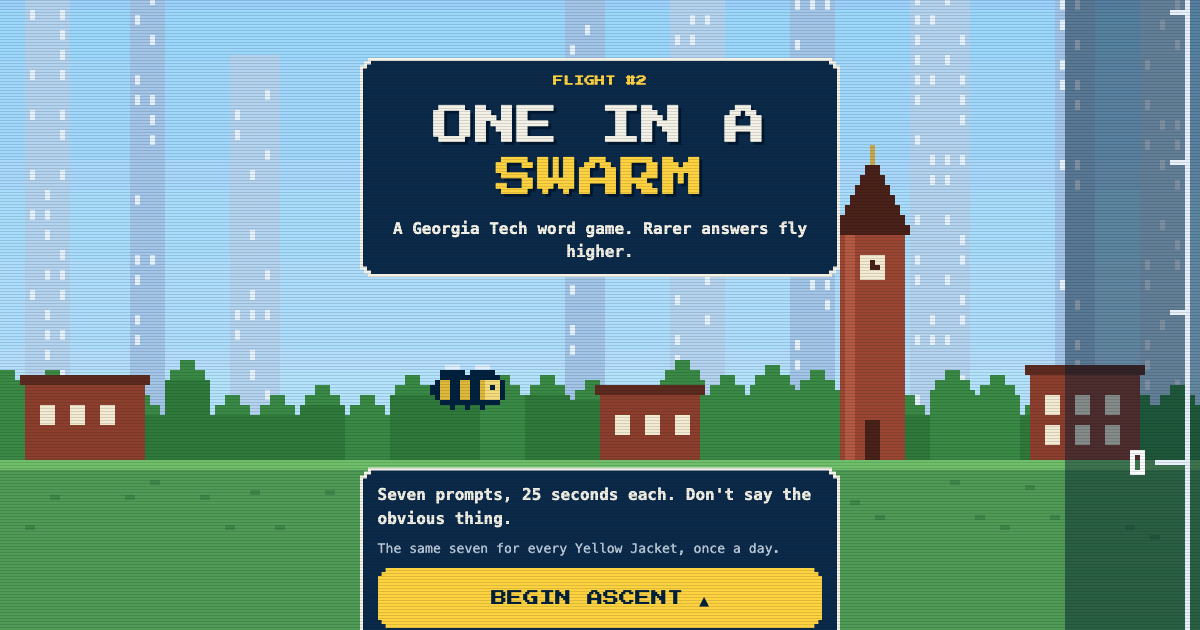
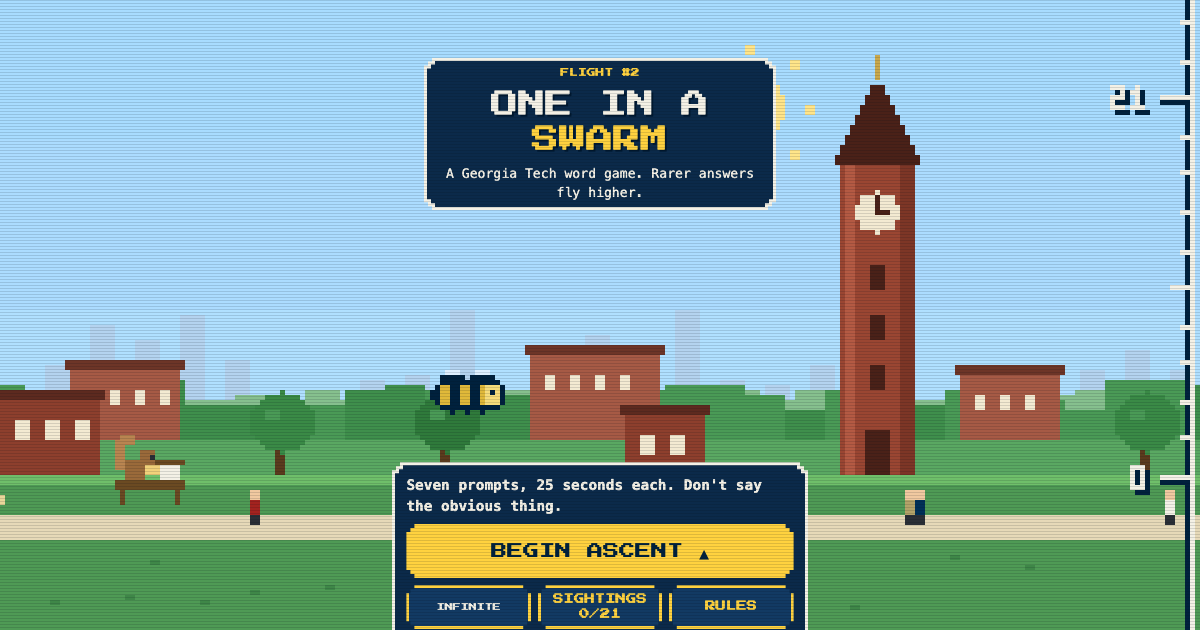
v3 section 7: verify, screenshots and review
Three flights at phone and desktop size, 44 screenshots in screenshots/v3,
two review iterations logged in REVIEW.md. Start-screen controls on one
row, bee and flag clear of the tier labels, sightings no longer counted
from the previous screen. 99 unit tests and 27 browser scenarios pass.

diff --git a/js/scene.js b/js/scene.js
@@ -142,7 +142,7 @@
     const rowOf = (score, f) => anchorRow() - Math.round((score - cam) * PPP * (f || 1));
     const scoreOf = (row) => cam + (anchorRow() - row) / PPP;
     const onScreen = (y, pad) => y > -(pad || 30) && y < H + (pad || 30);
-    const beeX = () => Math.round(W * (W < 150 ? 0.28 : 0.36));
+    const beeX = () => Math.round(W * (W < 150 ? 0.2 : 0.36)); // further left on phones, clear of the tier labels
 
     function px(x, y, w, h, color) {
       ctx.fillStyle = color;
@@ -751,7 +751,7 @@
       },
       flag(g, x) {
         if (!flagUp) return null;
-        const fx = beeX() + 22;
+        const fx = beeX() - 8; // just behind the bee, clear of the answer tag and the tier label
         const fy = anchorRow() + 7;
         px(fx, fy - 15, 1, 16, '#f4f6f8');
         px(fx + 1, fy - 15, 5, 5, '#c9a94d');

diff --git a/js/core.js b/js/core.js
@@ -7,7 +7,7 @@
   'use strict';
 
   const TIERS = {
-    common: { points: 10, label: 'Common', emoji: '⬜', bonusMs: 8000, climbMs: 2500, quip: 'Everybody said that one. The bees barely cleared the lawn.' },
+    common: { points: 10, label: 'Common', emoji: '⬜', bonusMs: 8000, climbMs: 2500, quip: 'Everybody said that one. A short hop.' },
     clever: { points: 15, label: 'Too Clever', emoji: '🟩', bonusMs: 8000, climbMs: 2800, quip: 'You and every other clever Jacket.' },
     solid: { points: 30, label: 'Solid', emoji: '🟧', bonusMs: 9000, climbMs: 3100, quip: 'A good answer. The swarm picks up speed.' },
     rare: { points: 60, label: 'Rare', emoji: '🟦', bonusMs: 10000, climbMs: 3400, quip: 'Not many think of that one. Up you go.' },

diff --git a/css/style.css b/css/style.css
@@ -185,8 +185,8 @@ section[data-view="home"] { min-height: 100dvh; padding: 3.6rem 1rem 0.6rem; dis
 .start-links summary::before { display: none; }
 .start-links details[open] { grid-column: 1 / -1; }
 .start-links > * { min-width: 0; }
-.start-links summary { flex-wrap: wrap; overflow-wrap: anywhere; }
-.start-links summary span { margin-left: 0.3rem; }
+.start-links summary { flex-direction: column; }
+.start-links summary span { display: block; }
 .start-panel .rule-line { font-size: 0.9rem; }
 .start-panel .btn-big { min-height: 54px; }
 .how summary { cursor: pointer; min-height: 44px; display: flex; align-items: center; font-family: var(--pixel); font-size: 0.65rem; color: var(--accent); }

diff --git a/tests/e2e/screens.js b/tests/e2e/screens.js
@@ -112,8 +112,9 @@ async function run(browser, base, name, width, height, mobile) {
   await phase('reveal');
   await sleep(900);
   await shot('12-flight150-ends-here');
+  await load(seed(['swarm', 'clever'])); // 115 points: the red-and-black balloon is just overhead
   if (await tap('balloon')) {
-    await sleep(350);
+    await sleep(300);
     await shot('13-egg-balloon-popped');
   }
   await load(seed(['rare', 'solid', 'clever', 'common', 'solid', null, null]));

diff --git a/README.md b/README.md
@@ -23,12 +23,25 @@ confirm it ("Clough") and costs nothing. Answers score by rarity:
 | Deep Cut | 85 | |
 | One in a Swarm | 100 | exactly one hidden answer per prompt |
 
-**The ascent.** The whole game is one tall pixel-art world. Every correct answer flies the swarm
-upward from the campus lawn, and the world never resets between rounds: past the Atlanta skyline,
-low clouds, airliners and cirrus, into a darkening stratosphere and out to the edge of space.
-Altitude follows a curve (`TOP_FEET` and `ALTITUDE_CURVE` in `js/core.js`): seven obvious answers
-just clear the tallest building in Atlanta at about 1,000 ft, and a perfect 700 reaches the Karman
-line at 328,084 ft. Real altitude facts slide past on the way up.
+**The ascent.** The whole game is one tall pixel-art world, and it never resets between rounds.
+Height on screen depends only on points: one point is 6% of the screen, so a 10-point answer climbs
+a little over half a screen and a 100-point answer climbs six. The feet on the ruler come from one
+curve (`altitudeFeet()` in `js/core.js`) pinned so that real altitudes land in the right scenery:
+
+| Points | Zone | About |
+|---|---|---|
+| 0 | Campus | the lawn |
+| 40 | Midtown skyline | 120 ft |
+| 110 | Low clouds | 1,200 ft |
+| 200 | Weather | 16,000 ft |
+| 300 | High sky | 29,000 ft |
+| 420 | Stratosphere | 70,000 ft |
+| 550 | Space | the Karman line, 100 km |
+| 650 to 700 | The Moon | 238,855 miles |
+
+Real altitude facts slide past on the way up, and there are 21 sightings to find: twelve odd things
+drawn into the world at their real altitudes, five secret answers, and four things to do. Found
+ones are kept in the browser and listed on the title and results screens.
 
 A finished day cannot be replayed. If you are mid-run when the day rolls over, you finish
 yesterday's flight first. Streak, flights, average and best are kept in the browser.
@@ -67,11 +80,11 @@ That one command runs all three of these:
 |---|---|
 | `npm test` | Unit tests: matching, daily seed and rotation, timers, scoring, saved data, colour contrast, file checks |
 | `npm run validate` | Content validator for `data/prompts.json` |
-| `npm run test:e2e` | 24 scenarios in headless Chrome: full daily and infinite runs, the climb and reveal card, wrong guess, near-miss and timeout, refresh and midnight rollover, time zones, blocked storage, bad saves, load failure, layout at four widths with the keyboard up, keyboard-only play, screen-reader announcements, reduced motion, sound, sharing |
+| `npm run test:e2e` | 27 scenarios in headless Chrome: full daily and infinite runs, the climb and reveal card, equal points climbing equal distance, a perfect 700 to the Moon, easter eggs and the sightings log, wrong guess, near-miss and timeout, refresh and midnight rollover, time zones, blocked storage, bad saves, load failure, layout at four widths with the keyboard up, keyboard-only play, screen-reader announcements, reduced motion, sound, sharing, and frame rate on a throttled phone |
 
-`npm run screens` plays one flight at 375x812 and 1440x900 and saves screenshots of the start
-screen, a wrong guess, a near-miss, mid-climb, the reveal card, the One in a Swarm moment, a
-timeout and the results into `screenshots/`. It also refreshes the link-preview image.
+`npm run screens` plays flights of about 150, about 350 and a perfect 700 at 375x812 and 1440x900
+and saves screenshots of every zone, some sightings, a secret answer, the One in a Swarm moment and
+the results into `screenshots/v3/`. It also refreshes the link-preview image.
 
 ## Adding or changing prompts
 
@@ -102,7 +115,7 @@ X Tenth and Home | 10th and Home :: A note shown after a correct answer.
 Only include answers you are sure are real. Changing the set of prompt ids reshuffles the daily
 rotation for everyone, so ship prompt additions and removals just after 00:00 UTC.
 
-The daily rotation never repeats a prompt within `floor(prompts / 7)` days (4 days with 31 prompts).
+The daily rotation never repeats a prompt within `floor(prompts / 7)` days (4 days with 32 prompts).
 
 ## Deploying to GitHub Pages
 
@@ -122,14 +135,15 @@ index.html, 404.html     the pages
 css/style.css            styles; colour pairs are contrast-tested
 js/core.js               game rules, pure functions, shared by the browser and the tests
 js/scene.js              the world: one tall pixel-art scene drawn on a canvas
-js/facts.js              the altitude facts
+js/facts.js              the altitude facts (flag an approximate one with `verify`)
 js/sfx.js                sound effects, synthesised with Web Audio
 js/app.js                camera, round pacing and the DOM
 data/prompts.json        the prompt bank (generated)
 assets/fonts/            Press Start 2P and its licence
 tools/                   prompt source and build, validator
 tests/                   unit tests, and tests/e2e for headless Chrome
-screenshots/             the latest `npm run screens` output
+screenshots/v3/          the latest `npm run screens` output
+SWARM-V3.md              the v3 checklist with evidence
 SHIP.md                  release checklist with evidence
 HUMAN-TODO.md            what still needs a person
 ```

diff --git a/REVIEW.md b/REVIEW.md
@@ -165,3 +165,69 @@ Still not right, and left as it is:
 | Looks right at 375 and 1440 | PASS | layout scenario at 320, 375, 768 and 1440 including keyboard-up; screenshots reviewed by eye |
 
 Stopped after three iterations.
+
+---
+
+# v3: every flight goes somewhere
+
+The brief: fix six bugs, separate visual height from displayed feet, rebuild the world in zones,
+add easter eggs, and make it feel like a journey. Tracked item by item in `SWARM-V3.md`.
+Two verify iterations.
+
+## Iteration 1
+
+Built sections 1 to 6, then toured every zone in screenshots and looked at them as a new player.
+
+**The question that matters: does a 150-point flight end somewhere that looks different from the
+start?** Yes. It starts on a green lawn under a pale sky beside a brick tower, and ends at
+10,000 ft in clear blue above a floor of cloud, with birds and the sun. In between it passes
+lit office towers, a crane and a train.
+
+What was wrong:
+
+- From the lawn, the office towers filled the whole sky. Each tower was drawn from its top down
+  to the ground, and its top was several screens up. The city now fades in out of haze once the
+  swarm leaves the treetops, and from the lawn it is a line on the horizon.
+- The title screen's bottom panel was 354px tall on a phone and covered the bee and most of
+  campus. Its three controls now share one row and it is 206px.
+- A fact on the left sat on top of the bee. Facts now step aside for the bee, the answer tag and
+  the tier labels.
+- The sun sat behind the swarm for most of the climb. Moved to the right.
+- A gold bee had a brown disc behind it (translucent gold on black). Replaced with a few sparks.
+- The "common" quip said the bees had barely cleared the lawn, at 10,000 ft. Reworded.
+- On phones the tier label ran over the bee, and on the Moon it hid the flag. Bee moved left on
+  narrow screens; flag planted just behind it.
+- "SIGHTINGS" broke mid-word in its button.
+
+Found by tests, not by eye:
+
+- Sightings in view on the loading screen were being counted when a flight resumed.
+- The balloon could still be tapped for a frame after it popped.
+- Headless Chrome floods arrow keys with repeats; the Konami handler now ignores repeats.
+- The title screen scrolled sideways at 320px.
+
+## Iteration 2
+
+Re-ran everything after the fixes and re-shot the screenshots.
+
+| Checklist | Result | Evidence |
+|---|---|---|
+| Typing during the wrong-guess lockout is never lost | PASS | e2e "wrong guess, near-miss and timeout": text typed inside the lockout replaces the selected guess; Enter inside it is ignored; the same Enter works after 400ms |
+| Same points always climb the same height | PASS | e2e "the climb": 15 points at 160 and 15 points at 260 both move the camera 15 points; 10 points is 60% of the screen. Unit test on `SCREENS_PER_POINT` |
+| A 150-pt flight ends in a visibly different zone | PASS | unit test: 150 points crosses campus, skyline and low clouds; screenshots `01-start-campus` and `12-flight150-ends-here` |
+| All 8 zones render; the 700 run reaches the Moon | PASS | screenshots 01, 03 to 08 and 20; e2e "a perfect 700": altimeter reads 238,855 MI and the flag is planted |
+| 12 sightings, 5 secret answers, 4 interaction eggs, all logged | PASS | 21 entries; e2e "easter eggs" exercises the tower, the bee, the Konami code, the night screen, all five secrets, the balloon and a sighting in flight, reading the log from localStorage each time |
+| Facts never clipped or covered; ruler always on top | PASS | e2e: the fact window sits between HUD and reveal card, nothing visible intersects the tag, and the ruler line is one unbroken colour down the canvas |
+| No real logos or brand names in art; facts verified or in VERIFY.md | PASS | all art is rectangles in `js/scene.js`; the jet, train, car and satellite carry no markings; 5 approximate facts are flagged in VERIFY.md |
+| No console errors; reduced motion works; 60fps on mobile emulation | PASS | every scenario asserts an empty console; e2e "reduced motion"; e2e "frame rate": 60 fps average, 95th-percentile frame 17ms, with the CPU slowed 4x during a 4-second climb |
+
+Not right yet, and left:
+
+- Facts fade out at the edge of the clear band rather than staying fully legible to the last
+  pixel. That is deliberate (it is what stops them hiding under panels), but a fact can be
+  half-faded for a moment when a round begins.
+- Weather is the weakest zone. The thunderheads are blocky and you can pass between them
+  without seeing one.
+- The bee is still small, and mid-flip it smears for a few frames.
+- "Tested in a headless browser" is not "played on a phone". Sound, touch targets on the canvas
+  and real frame rate are still unverified by a person.

diff --git a/HUMAN-TODO.md b/HUMAN-TODO.md
@@ -37,7 +37,11 @@ Headless Chrome cannot show a real on-screen keyboard, real frame rates, VoiceOv
 - [ ] **Sound** is off by default. Turn it on and listen: wrong-guess buzz, the rising tone on the
       climb, the One in a Swarm chord, the last-five-seconds ticks. Nobody has heard these yet;
       the tests only prove they fire and that the mute button silences them.
-- [ ] **Taste:** look at `screenshots/` and play it. This rebuild was made without being able to
+- [ ] **Easter eggs by hand:** tap the bee, tap the clock tower five times on the title screen, pop the
+      red-and-black balloon (it drifts by at about 2,400 ft), and try the secret answers. They are
+      tested in headless Chrome, but taps on a small canvas deserve a real thumb.
+- [ ] **Konami code** needs a keyboard, so it cannot be entered on a phone. Decide whether that matters.
+- [ ] **Taste:** look at `screenshots/v3/` and play it. This rebuild was made without being able to
       see krillion.io's game screens (they render in script and did not load here), so it follows
       your written spec, not that site's look. Say what feels off.
 
@@ -86,9 +90,13 @@ that I can't make for you. If in doubt, ask Georgia Tech's licensing office befo
 ## 7. Known limitations to accept or schedule
 
 - Rarity is preset, not measured. Real rarity needs a small backend.
-- Altitude is a curve, not a fixed number of feet per point, so that 700 points reaches the edge of
-  space while the first obvious answers barely leave the lawn. "+60 PTS" therefore climbs a
-  different number of feet depending on how high you already are. The card shows the real figure.
+- Distance climbed on screen depends only on points. The feet shown do not: they follow a curve so
+  that 700 points can reach the Moon, so the same answer adds more feet the higher you already are.
+  The reveal card now says where you are ("now at 8,893 ft"), not how many feet you gained.
+- There are 31 altitude facts, not one per half screen. That density would need about 85, and I kept
+  only ones I could check. Space in particular is sparse.
+- The sightings toast and tap eggs are held back while a round's clock runs, so the two ground-level
+  sightings are logged in round one but announced only once you answer.
 - Flight numbers count from 8 October 2026 (`LAUNCH_DATE` in `js/core.js`).
 - Everything runs in the browser, so a determined player can read `data/prompts.json` or edit their
   saved score. The timer resists refreshes, tab switching and clock changes, but someone who sets

diff --git a/SWARM-V3.md b/SWARM-V3.md
@@ -63,7 +63,11 @@ Resume from the first unchecked item. One commit per numbered section.
   - Moved out of the two cheap tiers: Nuclear and Radiological Engineering, Literature Media and Communication, Marcus Nanotechnology, Junior's Grill (closed 2011), John Young, T-Square (retired), Nebraska. Promoted in their place: Aerospace, Biomedical, Skiles, Waffle House, DegreeWorks, Tennessee. The fifteen new names I was unsure of were checked: eight confirmed, seven removed and listed in HUMAN-TODO.md.
 
 ## 7. Verify (max 5 iterations, logged in REVIEW.md)
-- [ ] 7a All tests pass
-- [ ] 7b Flights of about 150, about 350 and a perfect 700 at 375x812 and 1440x900, screenshots in screenshots/v3/
-- [ ] 7c Screenshot review written up and problems fixed
-- [ ] 7d Final checklist with evidence; commit, push, open a PR
+- [x] 7a All tests pass
+  - `npm run test:all` exits 0: 99 unit tests, the content validator, 27 of 27 browser scenarios, each asserting an empty console.
+- [x] 7b Flights of about 150, about 350 and a perfect 700 at 375x812 and 1440x900, screenshots in screenshots/v3/
+  - `npm run screens`: 44 screenshots covering every zone, the tower chime, the popped balloon, the astronaut, two secret answers, the One in a Swarm moment, the Moon landing with its flag, and the results with the Sightings panel. Tiers are forced by looking answers up by tier in the prompt bank, so no test hook is needed in the game for that; the game exposes one read-only handle, `window.__swarm`, for camera and hit-box checks.
+- [x] 7c Screenshot review written up and problems fixed
+  - REVIEW.md, "v3: every flight goes somewhere": two iterations, twelve problems found and fixed, four left and named.
+- [x] 7d Final checklist with evidence; commit, push, open a PR
+  - The eight-line checklist is at the end of REVIEW.md, every line PASS with its evidence.
